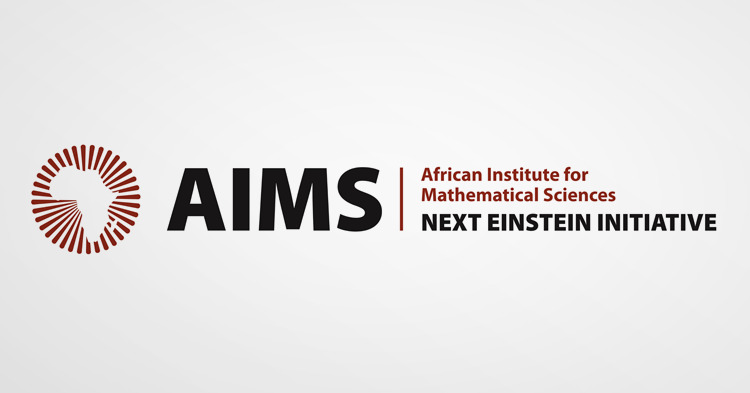
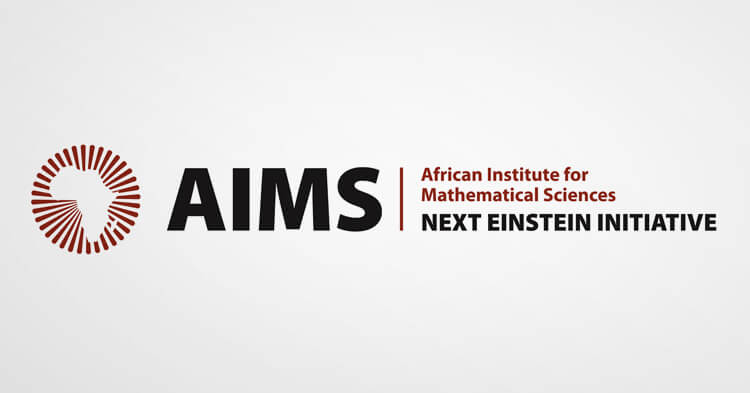
Compress all images

diff --git a/README.md b/README.md
@@ -8,7 +8,7 @@ Several problems arise:
 So I decided to propose a version of the site completely redone, lightweight with HTML, [Bulma](https://bulma.io/) and vanilla JS.
 ## Roadmap
 - [ ] Reproduce the current site
-- [ ] Compress louder images
+- [x] Compress louder images
 - [ ] Alternative new design
 - [x] Favicon
 - [x] Manifest
